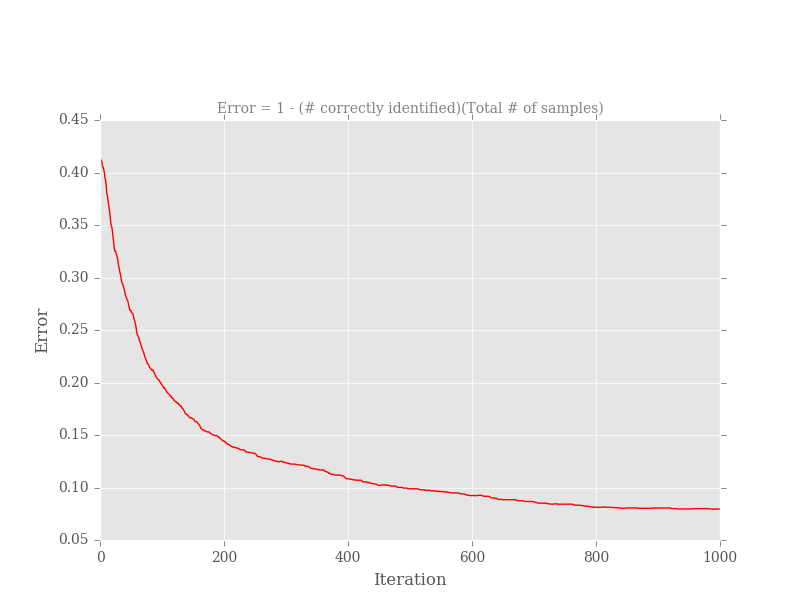
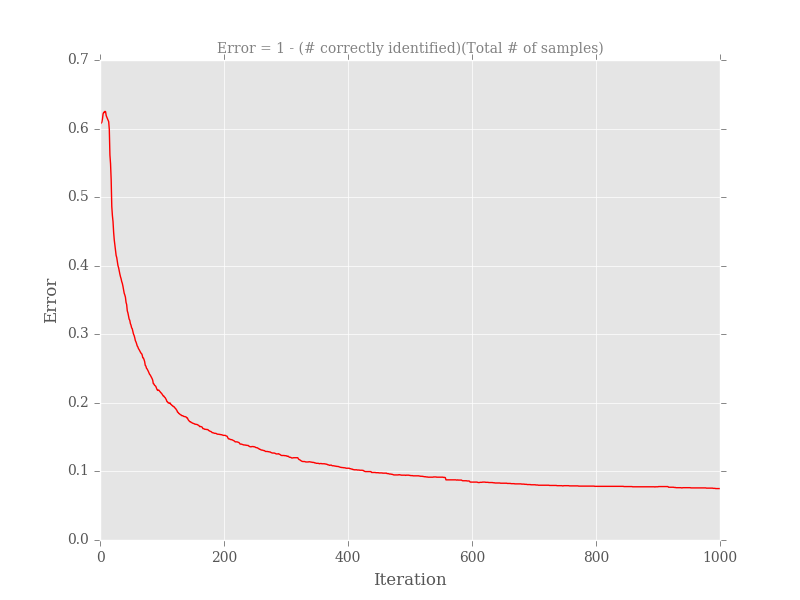
Added metrics

diff --git a/cs613_hw4/binary_ann.py b/cs613_hw4/binary_ann.py
@@ -1,74 +1,111 @@
 import util
 import ann
+import metrics
 import numpy as np
 
 
-def __select_features(dataframe):
-    return dataframe[dataframe.columns[:-1]]
+class BinaryANN(object):
 
+    def __init__(self, num_inputs, threshold=0.5, num_hidden_nodes=20, training_data_ratio=2.0/3.0, iterations=1000):
+        """
+        Create an instance of th BinaryANN class used to execute the Binary ANN Problem
+        :param num_hidden_nodes: Number of hidden nodes to use in ANN
+        :param threshold: The minimum threshold value to consider output as 'class 1' (i.e. spam).
+        :param training_data_ratio: ratio of the input data to use as training data
+        :param iterations: The total number of iterations to train the ANN
+        """
+        self._training_data_ratio = training_data_ratio
+        self._iterations = iterations
+        self._threshold = threshold
+        self._network = ann.ANN(num_inputs=num_inputs,
+                                num_hidden_nodes=num_hidden_nodes,
+                                num_output_nodes=1,
+                                learning_rate=0.5)
+        self._metrics = metrics.BinaryClassificationMetrics()
 
-def __select_target_labels(dataframe):
-    return dataframe[dataframe.columns[-1]]
+    @staticmethod
+    def __select_features(dataframe):
+        return dataframe[dataframe.columns[:-1]]
 
+    @staticmethod
+    def __select_target_labels(dataframe):
+        return dataframe[dataframe.columns[-1]]
 
-def execute(dataframe, threshold=0.5, num_hidden_nodes=20, training_data_ratio=2.0/3, iterations=1000):
-    """
-    Execute the Binary-Artificial Neural Network problem
-    :param num_hidden_nodes: Number of hidden nodes to use in ANN
-    :param dataframe: Input raw data
-    :param threshold: The minimum threshold value to consider output as 'class 1' (i.e. spam).
-    :param training_data_ratio: ratio of the input data to use as training data
-    :param iterations: The total number of iterations to train the ANN
-    :return: (final test error, list of training errors for each training iteration)
-    """
-    learning_parameter = 0.5
+    @property
+    def metrics(self):
+        """
+        The metrics of how this problem performed during the call to 'execute'
+        :return: BinaryClassificationMetrics
+        """
+        return self._metrics
 
-    # 2. Randomizes the data.
-    print "Randomizing Data"
-    random_data = util.randomize_data(dataframe)
+    def __update_metrics(self, expected_output, actual_output):
+        # We can't just apply a normal python function to a numpy array
+        # This will create a ufunc to apply the given lambda to each value,
+        # and map anything greater than the threshold to '1' Corresponding to the 'Is Spam' class
+        apply_threshold = np.frompyfunc(lambda x: 1 if x > self._threshold else 0, 1, 1)
+        formatted_actual_output = apply_threshold(actual_output)
 
-    # 3. Selects the first 2/3 (round up) of the data for training and the remaining for testing
-    print "Splitting Test and Training Data"
-    training_data, test_data = util.split_data(random_data, training_data_ratio)
+        formatted_expected_output = expected_output.values.reshape(-1, 1)
 
-    # 4. Standardizes the data (except for the last column of course as well as the bias feature)
-    #    using the training data
-    print "Standardizing Training Data"
-    standardized_training_data, mean, std = util.standardize_data(__select_features(training_data))
+        expected_positive_indices, _ = np.where(formatted_expected_output == 1)
+        expected_negative_indices, _ = np.where(formatted_expected_output == 0)
 
-    # 5. Trains an artificial neural network using the training data
-    #    Our last column is the label column
-    num_inputs = len(dataframe.columns[:-1])
+        # True Positives are where the expected was '1' and the actual was '1'
+        self._metrics.num_true_positives = np.count_nonzero(formatted_actual_output[expected_positive_indices])
 
-    # Network will add the bias internally
-    network = ann.ANN(num_inputs, num_hidden_nodes, num_output_nodes=1, learning_rate=learning_parameter)
+        # False Negatives are where the expected was '1' and the actual was '0'
+        # We can find this by subtracting the count of where actual was 1 from
+        # total number where actual should be 1 (len(expected_positive_indices))
+        self._metrics.num_false_negatives = len(expected_positive_indices) - self._metrics.num_true_positives
 
-    # 6. During the training process, compute the training error after each iteration.
-    #    You will use this to plot the training error vs. iteration number.
-    expected_training_outputs = __select_target_labels(training_data).values.reshape(-1, 1)
-    print "Training Neural Network"
-    training_errors = network.train(standardized_training_data, expected_training_outputs, iterations, threshold=threshold)
+        # False negatives are where the expected was '0' and the actual was '1'
+        self._metrics.num_false_positives = np.count_nonzero(formatted_actual_output[expected_negative_indices])
 
-    # 7. Classifies the testing data using the trained neural network.
-    print "Classifying Testing Data"
-    expected_test_output = __select_target_labels(test_data)
-    std_test_data, _, _ = util.standardize_data(__select_features(test_data), mean, std)
+        # True Negatives are where the expected was '0' and the actual was '0'
+        # We can compute this by subtracting the count of false positives
+        # from the total number of items that should be '0'
+        self._metrics.num_true_negatives = len(expected_negative_indices) - self._metrics.num_false_positives
 
-    raw_actual_test_output = network.evaluate(std_test_data.values)
+    def execute(self, dataframe):
+        """
+        Execute the Binary-Artificial Neural Network problem
+        :param dataframe: Input raw data
+        :return: (final test error, list of training errors for each training iteration)
+        """
 
-    # We can't just apply a normal python function to a numpy array
-    # This will create a ufunc to apply the given lambda to each value, and map anything greater than the threshold to
-    # '1' Corresponding to the 'Is Spam' class
-    apply_threshold = np.frompyfunc(lambda x: 1 if x > threshold else 0, 1, 1)
-    actual_test_output = apply_threshold(raw_actual_test_output)
+        # 2. Randomizes the data.
+        print "Randomizing Data"
+        random_data = util.randomize_data(dataframe)
 
-    # 8. Compute the testing error.
-    print "Computing test error"
-    # Count all of the true values (where expected == actual)
-    num_correct = np.count_nonzero(expected_test_output.values.reshape(-1, 1) == actual_test_output)
-    num_samples = len(expected_test_output)
-    test_error = 1.0 - (float(num_correct) / float(num_samples))
+        # 3. Selects the first 2/3 (round up) of the data for training and the remaining for testing
+        print "Splitting Test and Training Data"
+        training_data, test_data = util.split_data(random_data, self._training_data_ratio)
 
-    print "Test Error: ", test_error
+        # 4. Standardizes the data (except for the last column of course as well as the bias feature)
+        #    using the training data
+        print "Standardizing Training Data"
+        standardized_training_data, mean, std = util.standardize_data(self.__select_features(training_data))
 
-    return test_error, training_errors
+        # 5. Trains an artificial neural network using the training data
+        #    Our last column is the label column
+        # 6. During the training process, compute the training error after each iteration.
+        #    You will use this to plot the training error vs. iteration number.
+        expected_training_outputs = self.__select_target_labels(training_data).values.reshape(-1, 1)
+        print "Training Neural Network"
+        training_errors = self._network.train(standardized_training_data, expected_training_outputs, self._iterations)
+
+        # 7. Classifies the testing data using the trained neural network.
+        print "Classifying Testing Data"
+        expected_test_output = self.__select_target_labels(test_data)
+        std_test_data, _, _ = util.standardize_data(self.__select_features(test_data), mean, std)
+
+        actual_test_output = self._network.evaluate(std_test_data.values)
+
+        # 8. Compute the testing error.
+        print "Computing Metrics"
+        self.__update_metrics(expected_test_output, actual_test_output)
+        test_error = self._metrics.calculate_error()
+        print "Test Error: ", test_error
+
+        return test_error, training_errors

diff --git a/cs613_hw4/metrics.py b/cs613_hw4/metrics.py
@@ -1,0 +1,65 @@
+class BinaryClassificationMetrics(object):
+    def __init__(self):
+        self._num_true_positives = 0
+        self._num_true_negatives = 0
+        self._num_false_positives = 0
+        self._num_false_negatives = 0
+
+    @property
+    def num_true_positives(self):
+        return self._num_true_positives
+
+    @num_true_positives.setter
+    def num_true_positives(self, value):
+        self._num_true_positives = value
+
+    @property
+    def num_true_negatives(self):
+        return self._num_true_negatives
+
+    @num_true_negatives.setter
+    def num_true_negatives(self, value):
+        self._num_true_negatives = value
+
+    @property
+    def num_false_positives(self):
+        return self._num_false_positives
+
+    @num_false_positives.setter
+    def num_false_positives(self, value):
+        self._num_false_positives = value
+
+    @property
+    def num_false_negatives(self):
+        return self._num_false_positives
+
+    @num_false_negatives.setter
+    def num_false_negatives(self, value):
+        self._num_false_negatives = value
+
+    def calculate_precision(self):
+        """
+        Compute the Precision (percentage of things that were classified as positive and actually were positive)
+        :return: precision, value between 0.0 and 1.0
+        """
+        return self._num_true_positives / (self._num_true_positives + self._num_false_positives)
+
+    def calculate_recall(self):
+        """
+        Compute the Recall (True Positive Rate),
+        the percentage of true positives (sensitivity) which were correctly identified.
+        :return: recall, value between 0.0 and 1.0
+        """
+        return self._num_true_positives / (self._num_true_positives + self._num_false_negatives)
+
+    def calculate_error(self):
+        """
+        Compute the Error for Binary Classification
+        :return: float value between 0.0 and 1.0
+        """
+
+        num_correct = self._num_true_positives + self._num_true_negatives
+        num_incorrect = self._num_false_positives + self._num_false_negatives
+        num_samples = num_correct + num_incorrect
+
+        return 1.0 - (num_correct / num_samples)

diff --git a/cs613_hw4/hw4.py b/cs613_hw4/hw4.py
@@ -43,7 +43,8 @@ if __name__ == "__main__":
     if args.do_binary_ann:
         raw_data = data.read_spambase_dataset(args.data_filepath)
         print "Executing Binary Artificial Neural Network"
-        test_error, training_errors = binary_ann.execute(raw_data)
+        num_inputs = len(raw_data.columns[:-1])
+        test_error, training_errors = binary_ann.BinaryANN(num_inputs).execute(raw_data)
         print "Plotting Graph of Training Errors"
         graph_filepath = graphing.plot_binary_ann_errors(training_errors)
         print "Saved Graph to '{0}'".format(graph_filepath)
@@ -53,6 +54,7 @@ if __name__ == "__main__":
         raw_data = data.read_spambase_dataset(args.data_filepath)
         print "Executing Precision-Recall"
         precision_recall.execute(raw_data)
+        print ""
 
     if args.do_multi_ann:
         raw_data = data.read_cardiotocography_dataset(args.data_filepath)

diff --git a/cs613_hw4/precision_recall.py b/cs613_hw4/precision_recall.py
@@ -1,2 +1,16 @@
+import binary_ann
+import numpy as np
+
+
 def execute(dataframe):
-    pass
+    # Now let's vary that threshold t (which was previously 0.5) from 0.0 to 1.0 in increments of 0.1,
+    # each time computing the precision and recall by labeling observations as Positive if their likelihood
+    # is greater that the current t and Negative otherwise.
+    threshold_values = np.arange(0.0, 1.0, 0.1)
+
+    num_inputs = len(dataframe.columns[:-1])
+
+    for threshold in threshold_values:
+        ann = binary_ann.BinaryANN(num_inputs, threshold=threshold)
+        ann.execute(dataframe)
+

diff --git a/cs613_hw4/graphing.py b/cs613_hw4/graphing.py
@@ -23,7 +23,6 @@ def plot_binary_ann_errors(training_errors, output_dir='graphs', filename='binar
     plt.ylabel("Error")
     plt.xlabel("Iteration")
     plt.title("Error = 1 - (# correctly identified)(Total # of samples)", fontsize=10, color='gray')
-    plt.subplots_adjust(top=0.8)
 
     graph_filepath = os.path.join(output_dir, filename)
     plt.savefig(graph_filepath)
